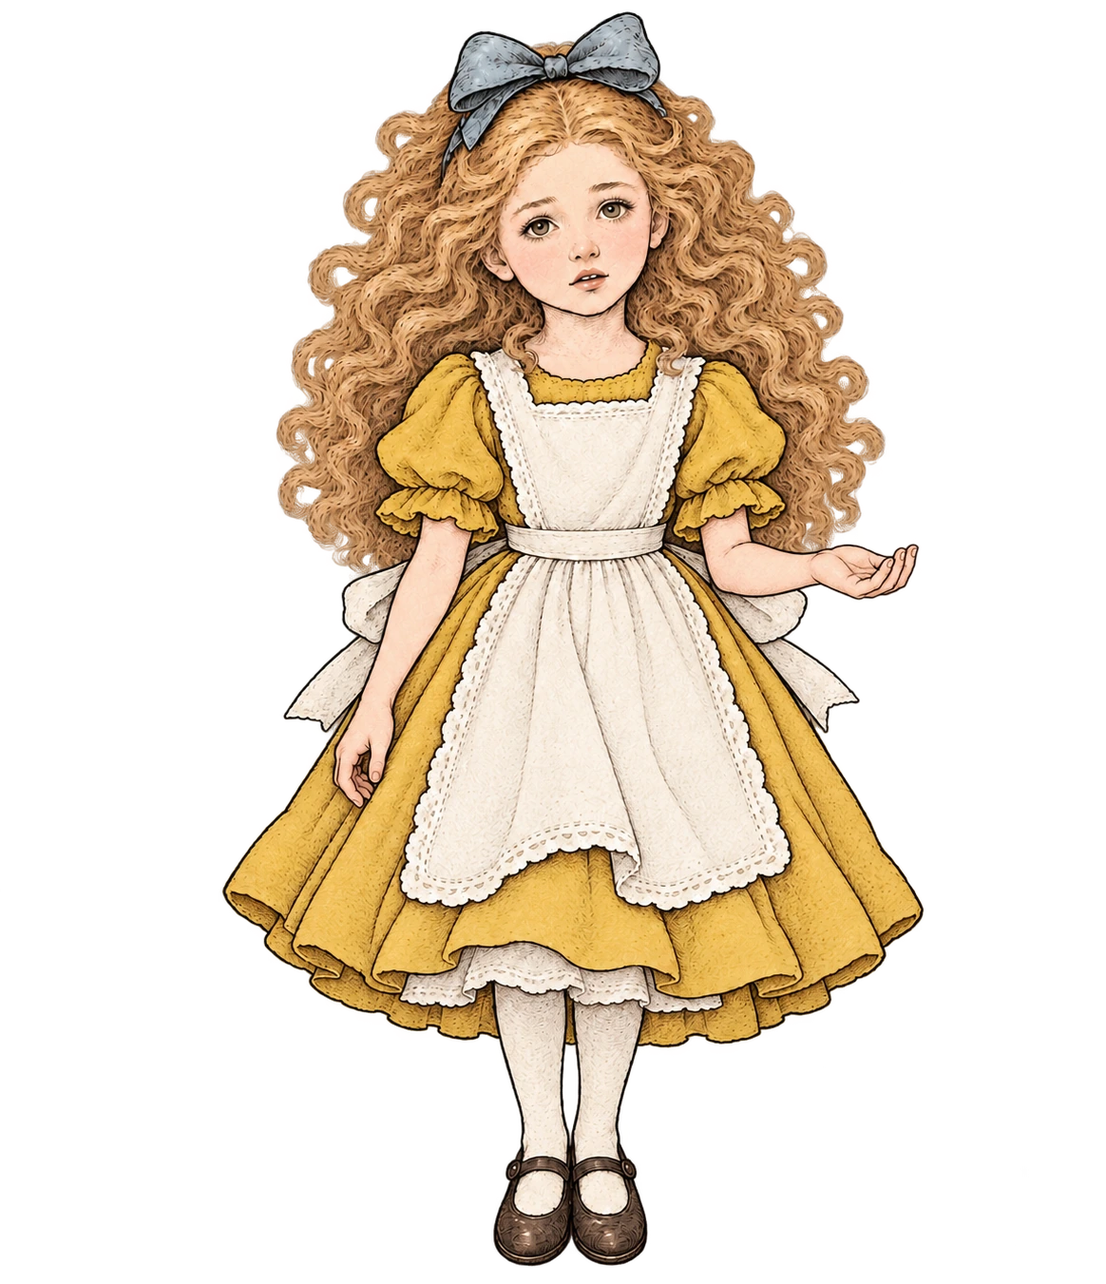
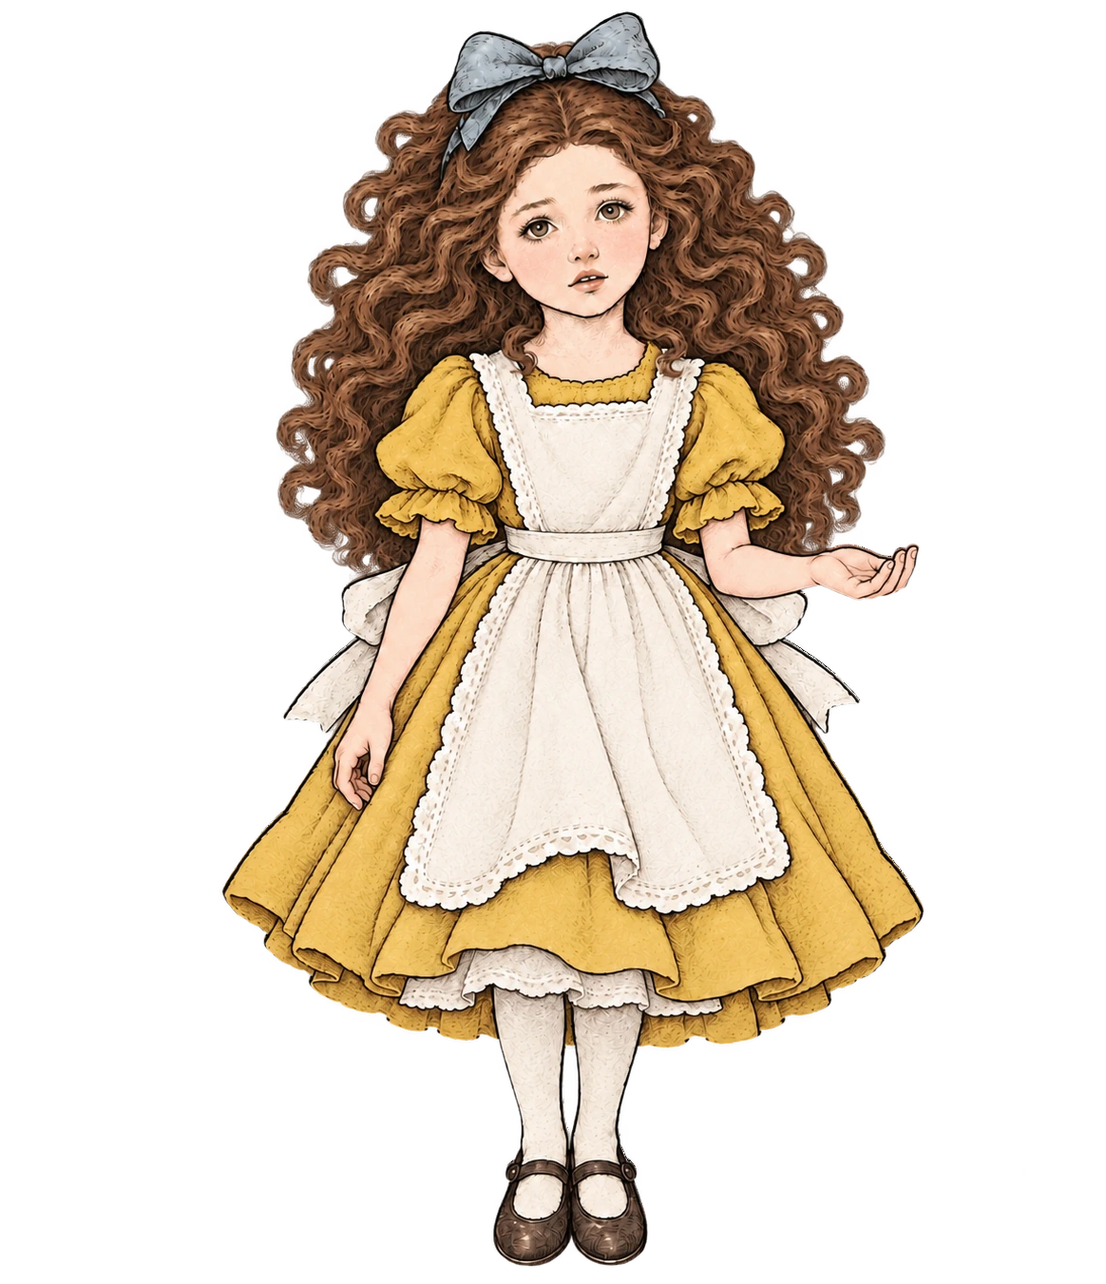
Continue Alice scene art audit

Changed region(s): [[0.1856, 0.0, 0.8351, 0.9948], [0.5258, 0.5285, 0.5567, 0.5907]]

diff --git a/src/demos/rabbit-hole/generated-preview.ts b/src/demos/rabbit-hole/generated-preview.ts
@@ -1,4 +1,5 @@
 import { type AliceVariant, aliceVariant } from '../art/art.ts';
+import { artStyle } from '../art/treatments.ts';
 
 /** Opt-in, scene-local comparison. The source master is not an articulated rig. */
 export const previewEnabled = (search: string): boolean =>
@@ -10,7 +11,7 @@ export const previewSource = (
   variant === 'blue'
     ? {
         src: new URL(
-          '../../assets/images/generated-preview/alice--falling-overhead.blue.candidate-v1.webp',
+          '../../assets/images/generated-preview/alice--falling-overhead.blue.generated.webp',
           import.meta.url,
         ).href,
         width: 1206,
@@ -18,7 +19,7 @@ export const previewSource = (
       }
     : {
         src: new URL(
-          '../../assets/images/generated-preview/alice--falling-overhead.yellow.candidate-v1.webp',
+          '../../assets/images/generated-preview/alice--falling-overhead.yellow.generated.webp',
           import.meta.url,
         ).href,
         width: 1206,
@@ -26,9 +27,10 @@ export const previewSource = (
       };
 
 export function installGeneratedPreview(root: HTMLElement, ui: Record<string, string>): void {
-  if (!previewEnabled(window.location.search)) return;
+  if (artStyle() !== 'engraved') return;
   const figure = root.querySelector<HTMLElement>('.rh__alice > .art');
   if (!figure) return;
+  const compare = previewEnabled(window.location.search);
   const image = document.createElement('img');
   const source = previewSource(aliceVariant());
   image.width = source.width;
@@ -39,25 +41,29 @@ export function installGeneratedPreview(root: HTMLElement, ui: Record<string, st
   image.className = 'rh__generated-master rh__alice-figure';
   figure.append(image);
 
-  const panel = document.createElement('details');
-  panel.className = 'rh__preview-controls';
-  const summary = document.createElement('summary');
-  summary.textContent = ui.demoCompareArt ?? '';
-  const label = document.createElement('label');
-  const toggle = document.createElement('input');
-  toggle.type = 'checkbox';
-  toggle.id = 'rh-generated-preview-toggle';
-  label.htmlFor = toggle.id;
-  toggle.checked = true;
-  toggle.dataset.generatedToggle = '';
-  label.append(toggle, document.createTextNode(ui.demoGeneratedMaster ?? ''));
-  const note = document.createElement('p');
-  note.textContent = ui.demoGeneratedLimit ?? '';
-  panel.append(summary, label, note);
-  root.append(panel);
+  let toggle: HTMLInputElement | undefined;
+  let note: HTMLParagraphElement | undefined;
+  if (compare) {
+    const panel = document.createElement('details');
+    panel.className = 'rh__preview-controls';
+    const summary = document.createElement('summary');
+    summary.textContent = ui.demoCompareArt ?? '';
+    const label = document.createElement('label');
+    toggle = document.createElement('input');
+    toggle.type = 'checkbox';
+    toggle.id = 'rh-generated-preview-toggle';
+    label.htmlFor = toggle.id;
+    toggle.checked = true;
+    toggle.dataset.generatedToggle = '';
+    label.append(toggle, document.createTextNode(ui.demoGeneratedMaster ?? ''));
+    note = document.createElement('p');
+    note.textContent = ui.demoGeneratedLimit ?? '';
+    panel.append(summary, label, note);
+    root.append(panel);
+  }
   let loaded = false;
   const update = (): void => {
-    const show = loaded && toggle.checked;
+    const show = loaded && (toggle?.checked ?? true);
     figure.toggleAttribute('data-generated-preview', show);
     image.hidden = !show;
   };
@@ -67,11 +73,11 @@ export function installGeneratedPreview(root: HTMLElement, ui: Record<string, st
   });
   image.addEventListener('error', () => {
     loaded = false;
-    toggle.disabled = true;
-    note.textContent = ui.demoGeneratedUnavailable ?? '';
+    if (toggle) toggle.disabled = true;
+    if (note) note.textContent = ui.demoGeneratedUnavailable ?? '';
     update();
   });
   image.src = source.src;
-  toggle.addEventListener('change', update);
+  toggle?.addEventListener('change', update);
   update();
 }

diff --git a/tests/play/generated-falling-overhead.spec.ts b/tests/play/generated-falling-overhead.spec.ts
@@ -1,0 +1,55 @@
+import { expect, test } from '@playwright/test';
+import { atCue } from '../demo-helpers.ts';
+
+for (const variant of ['yellow', 'blue'] as const) {
+  test(`Rabbit-hole fall uses the ${variant} overhead Alice plate and keeps the tumble`, async ({
+    page,
+  }) => {
+    await page.addInitScript((alice) => {
+      localStorage.setItem('alice-demos:alice', alice);
+      localStorage.setItem('alice-demos:art', 'engraved');
+    }, variant);
+    await page.goto('/demos/rabbit-hole/');
+    await expect(page.locator('.demo')).toHaveAttribute('data-attached', '');
+    const figure = page.locator('.rh__alice > .art');
+    const image = figure.locator('img[data-generated-master]');
+    await expect(image).toBeVisible();
+    await expect(figure).toHaveAttribute('data-generated-preview', '');
+    await expect(figure.locator(':scope > svg')).toHaveCSS('visibility', 'hidden');
+    await expect(image).toHaveAttribute(
+      'src',
+      new RegExp(`alice--falling-overhead\\.${variant}\\.generated`),
+    );
+    await expect.poll(() => image.evaluate((el: HTMLImageElement) => el.naturalWidth)).toBe(1206);
+
+    await atCue(page, 'drop', 0.55);
+    const motion = await image.evaluate((el) => ({
+      animation: getComputedStyle(el).animationName,
+      figureRotation: getComputedStyle(el.parentElement ?? document.documentElement).rotate,
+    }));
+    expect(motion.animation).toBe('rh-sway');
+    expect(motion.figureRotation).not.toBe('none');
+  });
+}
+
+test('a failed overhead plate reveals the articulated vector fallback', async ({ page }) => {
+  await page.addInitScript(() => localStorage.setItem('alice-demos:art', 'engraved'));
+  await page.route(/alice--falling-overhead\.yellow\.generated/, (route) => route.abort());
+  await page.goto('/demos/rabbit-hole/');
+  const figure = page.locator('.rh__alice > .art');
+  await expect(figure.locator('img[data-generated-master]')).toBeHidden();
+  await expect(figure).not.toHaveAttribute('data-generated-preview', '');
+  await expect(figure.locator(':scope > svg')).toBeVisible();
+});
+
+test('the explicit comparison can restore the original articulated figure', async ({ page }) => {
+  await page.addInitScript(() => localStorage.setItem('alice-demos:art', 'engraved'));
+  await page.goto('/demos/rabbit-hole/?artPreview=overhead');
+  const figure = page.locator('.rh__alice > .art');
+  await page.locator('.rh__preview-controls summary').click();
+  const toggle = page.locator('[data-generated-toggle]');
+  await expect(toggle).toBeVisible();
+  await toggle.uncheck();
+  await expect(figure.locator('img[data-generated-master]')).toBeHidden();
+  await expect(figure.locator(':scope > svg')).toBeVisible();
+});

diff --git a/tests/play/demo-loading.spec.ts b/tests/play/demo-loading.spec.ts
@@ -1,0 +1,52 @@
+import { expect, test } from '@playwright/test';
+
+test('the scene text stays hidden until the stage is ready, including after re-entry', async ({
+  page,
+}) => {
+  let releaseEntry: (() => void) | undefined;
+  let entryStarted: (() => void) | undefined;
+  const blocked = new Promise<void>((resolve) => {
+    releaseEntry = resolve;
+  });
+  const started = new Promise<void>((resolve) => {
+    entryStarted = resolve;
+  });
+  let held = false;
+  await page.route('**/assets/main-*.js', async (route) => {
+    if (!held) {
+      held = true;
+      entryStarted?.();
+      await blocked;
+    }
+    await route.continue();
+  });
+
+  await page.goto('/demos/cheshire-cat/', { waitUntil: 'commit' });
+  await page.locator('.demo__track').waitFor({ state: 'attached' });
+  await started;
+  await expect(page.locator('html')).toHaveAttribute('data-demo-booting', '');
+  await expect(page.locator('.demo__track')).toHaveCSS('visibility', 'hidden');
+  await expect(page.locator('.demo__track .line')).toHaveCount(43);
+
+  releaseEntry?.();
+  await expect(page.locator('.demo')).toHaveAttribute('data-attached', '');
+  await expect(page.locator('html')).not.toHaveAttribute('data-demo-booting');
+  await expect(page.locator('.demo__track')).toBeHidden();
+  await expect(page.locator('.demo-beat[data-active]')).toHaveCount(1);
+
+  await page.locator('.demo__back').click();
+  await expect(page).toHaveURL(/\/demos\/$/);
+  await page.goBack();
+  await expect(page).toHaveURL(/\/demos\/cheshire-cat\/$/);
+  await expect(page.locator('.demo')).toHaveAttribute('data-attached', '');
+  await expect(page.locator('.demo-beat[data-active]')).toHaveCount(1);
+});
+
+test('the story text remains readable when scripts are disabled', async ({ browser }) => {
+  const noScriptPage = await browser.newPage({ javaScriptEnabled: false });
+  await noScriptPage.goto('/demos/cheshire-cat/');
+  await expect(noScriptPage.locator('.demo__track')).toBeVisible();
+  await expect(noScriptPage.locator('.demo__track .line').first()).toBeVisible();
+  await expect(noScriptPage.locator('html')).not.toHaveAttribute('data-demo-booting');
+  await noScriptPage.close();
+});

diff --git a/build/demos.ts b/build/demos.ts
@@ -40,6 +40,18 @@ const ALICE_SCRIPT =
   'if(r==="flat"||r==="paper")d.dataset.art=r}catch(e){}</script>';
 
 /**
+ * Keep the readable text fallback from painting as a wall of sentences before the
+ * deferred scene module attaches. JavaScript-disabled pages never set the flag.
+ */
+export const demoBootScript =
+  '<script>(function(){var d=document.documentElement;' +
+  'd.setAttribute("data-demo-booting","");' +
+  'var show=function(){d.removeAttribute("data-demo-booting")};' +
+  'addEventListener("error",function(e){var t=e.target;' +
+  'if(t===window||(t&&t.tagName==="SCRIPT"&&t.type==="module"))show()},true);' +
+  'addEventListener("unhandledrejection",show,{once:true})})()</script>';
+
+/**
  * The arriving page's half of the turn between pages, inline in the head because
  * `pagereveal` fires before any module script runs. It names the page's own kind of
  * turn, absorbs a turn the browser skips, and marks the root `data-arriving` until
@@ -541,6 +553,7 @@ ${htmlOpen(project.locale, project.settings)}
     <link rel="icon" href="${root}assets/favicon.svg" type="image/svg+xml" />
     <link rel="stylesheet" href="${root}styles/base.css" />
     ${ALICE_SCRIPT}
+    ${demoBootScript}
     ${arrivalScript(transitionKindFor(`/demos/${demo.id}/`))}
     <script type="module" src="${root}demos/${demo.id}/main.ts"></script>
     <script type="application/json" id="demo-ui">${escapeHtml(JSON.stringify(forScript)).replace(/&quot;/g, '"')}</script>

diff --git a/build/demos.test.ts b/build/demos.test.ts
@@ -5,6 +5,7 @@ import {
   arrivalScript,
   DEMO_INDEX,
   DEMO_ORDER,
+  demoBootScript,
   demoDir,
   generateDemoPages,
   generateDemoPagesFrom,
@@ -30,6 +31,20 @@ const segmentIds = (html: string): string[] =>
   [...html.matchAll(/data-segment="([^"]+)"/g)].map((match) => match[1] ?? '');
 
 describe('the concept-demo pages', () => {
+  it('keeps the full text fallback hidden until the scene attaches without hiding no-script pages', () => {
+    for (const page of pages.filter((candidate) =>
+      /(?:^|\/)demos\/[^/]+\/index\.html$/.test(candidate.path),
+    )) {
+      expect(page.html, page.path).toContain(demoBootScript);
+      expect(page.html.indexOf(demoBootScript), page.path).toBeLessThan(
+        page.html.indexOf('<script type="module"'),
+      );
+      expect(page.html, page.path).not.toContain('data-demo-booting=""');
+    }
+    expect(demoBootScript).toContain('data-demo-booting');
+    expect(demoBootScript).toContain('unhandledrejection');
+  });
+
   it('generates the index and one page per demo, in the fixed order', () => {
     expect(pages.map((page) => page.path)).toEqual([
       'demos/index.html',

diff --git a/src/demos/caterpillar/main.ts b/src/demos/caterpillar/main.ts
@@ -147,7 +147,7 @@ function mount(shell: DemoShell): void {
   }).join('');
   treetops.innerHTML =
     '<svg class="ct__canopy" viewBox="0 0 1000 1000" preserveAspectRatio="xMidYMid slice" aria-hidden="true">' +
-    '<defs><pattern id="ct-neck-etch" width="20" height="20" patternUnits="userSpaceOnUse" patternTransform="rotate(18)"><path d="M-5 5 L5 -5 M0 20 L20 0 M15 25 L25 15" fill="none" stroke="var(--ink-primary)" stroke-width="1"/><path d="M-5 15 L5 25 M5 5 L15 15 M15 -5 L25 5" fill="none" stroke="var(--ink-primary)" stroke-width=".45"/></pattern></defs>' +
+    '<defs><pattern id="ct-neck-etch" width="9" height="9" patternUnits="userSpaceOnUse" patternTransform="rotate(18)"><path d="M-2 2 L2 -2 M0 9 L9 0 M7 11 L11 7" fill="none" stroke="var(--ink-primary)" stroke-width=".75"/><path d="M-2 7 L2 11 M0 0 L9 9 M7 -2 L11 2" fill="none" stroke="var(--ink-primary)" stroke-width=".38"/></pattern></defs>' +
     `<g class="ct__leaves ct__leaves--0">${generatedCanopyLeaves(leaves)}</g>` +
     '<ellipse class="ct__nest" cx="240" cy="820" rx="70" ry="26"/>' +
     '<path class="ct__neck" d=""/>' +

diff --git a/src/demos/rabbit-hole/generated-preview.test.ts b/src/demos/rabbit-hole/generated-preview.test.ts
@@ -1,7 +1,7 @@
 import { describe, expect, it } from 'vitest';
 import { previewEnabled, previewSource } from './generated-preview.ts';
 
-describe('rabbit-hole generated master preview opt-in', () => {
+describe('rabbit-hole generated fall artwork', () => {
   it('leaves ordinary pages and unknown query values alone', () => {
     expect(previewEnabled('')).toBe(false);
     expect(previewEnabled('?artPreview=other')).toBe(false);
@@ -17,7 +17,7 @@ describe('generated preview colour sources', () => {
     ['blue', 1305],
   ] as const)('keeps the %s candidate natural dimensions', (variant, height) => {
     const source = previewSource(variant);
-    expect(source.src).toContain(`alice--falling-overhead.${variant}.candidate-v1.webp`);
+    expect(source.src).toContain(`alice--falling-overhead.${variant}.generated.webp`);
     expect(source.width).toBe(1206);
     expect(source.height).toBe(height);
   });

diff --git a/src/demos/shell/shell.css b/src/demos/shell/shell.css
@@ -477,6 +477,10 @@
 
   /* Before the shell attaches, the track is a readable document. Once the beats have
      moved into the stage the track is only scroll distance. */
+  :where(:root[data-demo-booting]) .demo__track {
+    visibility: hidden;
+  }
+
   .demo__track {
     padding-block: calc(var(--demo-bar-height) + var(--space-3)) var(--space-3);
     padding-inline: var(--space-2);

diff --git a/src/demos/shell/shell.ts b/src/demos/shell/shell.ts
@@ -1071,9 +1071,11 @@ export function attachDemo(options: ShellOptions = {}): DemoShell | undefined {
     } catch (error) {
       console.error(error);
       detach();
+      document.documentElement.removeAttribute('data-demo-booting');
       return undefined;
     }
   }
+  document.documentElement.removeAttribute('data-demo-booting');
   return shell;
 }
 

diff --git a/src/demos/caterpillar/caterpillar.css b/src/demos/caterpillar/caterpillar.css
@@ -356,7 +356,7 @@
 
   .ct__neck--etch {
     fill: url(#ct-neck-etch);
-    opacity: 0.24;
+    opacity: 0.34;
     mix-blend-mode: multiply;
     pointer-events: none;
   }

diff --git a/docs/scene-art-audit-2026-11-01.md b/docs/scene-art-audit-2026-11-01.md
@@ -5,9 +5,8 @@
 - Audit branch: `codex/alice-full-scene-audit-20261101`.
 - Base: PR #29 image review head `07aa6e5cf7f9c330c54b28b725b2e445f473ec8e`.
 - Restored local work: commits `0d793a014618b4a48ca3a2ed2b43acb24a62d5fa` and `6937a875f1f9ce340b35e59381d75bca4e2e4d93`.
-- Reference build (`6937a87`) and post-fix build screenshots are in `/workspace/alice-audit-evidence-20261101/neck-{desktop,phone}-{baseline,after}.png`.
-- These screenshots show the Caterpillar “neck” cue at the same `0.6` cue fraction. They are local audit evidence; no remote branch or PR was changed.
-- Final local checks: build, TypeScript, Biome, and all 716 Vitest checks passed; the Caterpillar Playwright tests passed 16/16 across desktop and Pixel 7 emulation, including reduced motion.
+- Reference screenshots for Caterpillar are in `/workspace/alice-audit-evidence-20261101/neck-variants/` and private Library sheets are listed in the handoff. Same cue fractions were captured at start/middle/maximum for yellow/blue Alice on desktop and Pixel 7. No remote branch or PR was changed.
+- Current local checks: production build, typecheck, Biome, all 717 Vitest checks, and `git diff --check` pass. Playwright results in this environment: the focused Rabbit-hole/loading/Cheshire/Pig & Pepper desktop suite passed 31/31; its Pixel 7 suite passed 19/19; the yellow/blue swimming and running-art suites passed 58/58 across desktop and Pixel 7. A separate broad Trial command was interrupted after exposing an existing strict geometry assertion in `generated-court.spec.ts` (`foot` expected 220, actual 219.7409) on the installed Chromium. That test file and court layout are unchanged by this branch; it needs a baseline/browser-version check before treating the mismatch as a product regression.
 - This environment ran Node `v24.19.0`; the repository requests Node `>=22.12 <23`, so npm reports an engine mismatch even though all checks completed successfully.
 
 ## Acceptance checklist
@@ -16,30 +15,30 @@ Status key: **Fixed locally** means the local branch contains the change and the
 
 | # | Requested review | Status | Evidence / remaining work |
 |---:|---|---|---|
-| 1 | Remove text flash on page transitions; check loading, re-entry and chaining | Open | Transition path still needs desktop/phone sequence review. |
-| 2 | Audit every Alice image for yellow/brown and blue/blonde pairing | Open | Shared tokens exist; every generated and static pose still needs a rendered color sweep. |
-| 3 | Add/check Dinah art | Existing, not re-audited | Rabbit-hole figures exist; verify all Dinah states and fallbacks. |
-| 4 | Use existing falling Alice art | Existing, not re-audited | Falling pose generator is present; verify it appears during the fall. |
+| 1 | Remove text flash on page transitions; check loading, re-entry and chaining | **Fixed locally** | Inline boot marker hides pre-rendered story text until the deferred module attaches; script errors and rejected boot clear it, while no-JS pages remain readable. Desktop and Pixel 7 E2E: 4/4, including delayed entry, re-entry and no-JS. `build/demos.test.ts`: 21/21. |
+| 2 | Audit every Alice image for yellow/brown and blue/blonde pairing | **Partial** | Opened contact sheets for 25 yellow and 21 blue Alice figure entries and checked individual corrected images. Replaced clear blonde hair on yellow swimming, falling-card, and runner rest/carry; reapplied each source alpha mask. Swim/runner integration and blue/yellow variants passed 58/58 desktop/phone E2E. Remaining poses and both authored blue/yellow routes still need a visual scene sweep before claiming full audit. |
+| 3 | Add/check Dinah art | Open | Both Rabbit-hole and Pool/Mousetale currently use vector `dinah-cat`/`dinah-cat/pouncing`; no dedicated generated Dinah cutout is in the route. |
+| 4 | Use existing falling Alice art | **Fixed locally** | New yellow/brown-haired and blue/blonde-haired overhead masters are used in the default engraved Rabbit-hole fall. They remain inside the original motion/placement wrapper; image-load failure and the opt-in comparison control restore the articulated SVG fallback. Desktop and Pixel 7 Playwright: 8/8. The image is a baked pose, so limb articulation is limited while the original tumble/sway remains. |
 | 5 | Illustrate Rabbit House exterior, interior and surroundings | Open | Need scene composition and phone review. |
 | 6 | Fit Drink Me label to bottle curvature | Open | Need inspect all zoom/orientation states and correct if flat. |
 | 7 | Reconcile giant Alice body, arms, window, chimney and feet | Open / blocked | The house artwork still has horizontal legs disconnected from the chimney. Two prior ImageGen attempts were safety-denied; do not retry. Inspect geometric composition/code-only adjustments separately. |
-| 8 | Illustrate White Rabbit while falling through the hole | Existing, not re-audited | Running Rabbit pose generator exists; verify its time range in motion. |
-| 9 | Use an illustrated rear view for chasing Alice | Existing, not re-audited | Runner pose generator exists; verify the rear pose during pursuit. |
+| 8 | Illustrate White Rabbit while falling through the hole | Existing, route confirmed | `white-rabbit/running` is a generated cutout in the hole fall and is reused across later scenes; a full cross-scene visual sweep remains. |
+| 9 | Use an illustrated rear view for chasing Alice | Existing, route confirmed | Riverbank's `fieldHtml()` uses generated yellow/blue `alice/running-away` rear views inside the pursuer. Motion is tested, but all beats still need a visual sweep. |
 | 10 | Review foreground hedge/grass and backgrounds across all pages | Open | Full 19-scene scenery sweep not yet done. |
-| 11 | Connect the Caterpillar neck cleanly at the body | **Fixed locally** | Root path now tapers to 14 SVG units, is clipped by the foreground shoulder artwork, and has visible hatching/shading. Matched PC/phone screenshots saved; Caterpillar Playwright suite passed 16/16 across desktop and phone, with reduced motion included. The supplied 172×97 Library PNG could not be materialized through the approved helper, so its pixels were not independently inspected in this environment. |
+| 11 | Connect the Caterpillar neck cleanly at the body | **Fixed locally** | Root path tapers to 14 SVG units, is clipped by the foreground shoulder artwork, and has denser crosshatching/shading. Captured start/middle/maximum for yellow and blue, desktop and Pixel 7, at `/workspace/alice-audit-evidence-20261101/neck-variants/`; private Library screenshots: desktop yellow `libfile_9b73070419e88191b645f666ec4d0ccf`, desktop blue `libfile_b48d770b96ac81919cae32c60de8ac72`, phone yellow `libfile_4517b4eacb14819180a5a255a39b2e4c`, phone blue `libfile_d53e12a914d081918f7879b74094590c`. Parent-supplied crop confirms the thick blank seam in the older view; local screenshots show narrower root and hatch. Supplied crop itself was not materialized after two approved-helper failures. |
 | 12 | Turn Fish Footman toward the door | Existing, not re-audited | Review generated orientation and direction of travel together. |
 | 13 | Turn the Frog Footman’s full face toward the Fish | Existing, not re-audited | The recovered 3/4-left art is wired; re-check full motion and phone scale. |
-| 14 | Use illustrated baby → piglet → pig states | Existing, not re-audited | Three generated local states were added in `6937a87`; verify the transition timing and no vector leak. |
+| 14 | Use illustrated baby → piglet → pig states | Existing, locally accepted earlier | Three generated states (`caught`, `turning`, `piglet`) are wired in `6937a87`; the parent visually accepted desktop/phone transition screenshots. |
 | 15 | Illustrate Duchess’s house, trees and surrounding scene | Open | Needs a dedicated full-scene art pass. |
-| 16 | Use Cheshire mouth art in every expression state | Existing, not re-audited | Cat assets and prior tests exist; audit neutral, grin, disappearance and mouth zoom in motion. |
+| 16 | Use Cheshire mouth art in every expression state | Existing, route confirmed | Shared renderer composes face/ears/eyes/grin image layers for the Cheshire bough and Croquet close-up states while keeping live eye/pupil motion. Generated-expression desktop/phone E2E passed in the earlier batch; a full all-beat visual sweep remains. |
 | 17 | Add March Hare’s thatched house art | Open | Needs scene inventory and placement. |
 | 18 | Keep Hatter and Hare seated behind, not intersecting, the table | Existing, not re-audited | Inspect depth, seat and table geometry at desktop/phone. |
 | 19 | Enrich the tea table with varied food and dishes | Existing, not re-audited | Tea props exist; check scale, layering and visual density. |
 | 20 | Place chairs at the tea party | Open | Confirm existing art coverage; add if absent. |
-| 21 | Use the teapot image while pouring | Existing, not re-audited | Verify the pouring motion uses the same illustrated asset. |
+| 21 | Use the teapot image while pouring | Existing, route confirmed | `teapotMarkup()` supplies generated body/lid plates to the animated teapot element; the generated-layered tea tests passed across PC and phone. Full tea-party density/placement review remains. |
 | 22 | Improve the door room and key as image assets | Open | Needs rendered door states and image coverage review. |
 | 23 | Switch White Rose/Red Rose artwork instead of recoloring one circle | Open | Verify separate image states and transition behavior. |
-| 24 | Illustrate marching card soldiers as in the painting scene | Existing, not re-audited | Herald/card artwork exists; verify the actual march beat and reduced motion. |
+| 24 | Illustrate marching card soldiers as in the painting scene | Existing, route confirmed | `card-soldier` resolves to a generated engraved figure with vector fallback in Duchess, Croquet and Trial. Court and flight behavior tests passed; Duchess marching composition still needs scene-specific visual confirmation. |
 
 ## Neck seam change
 
